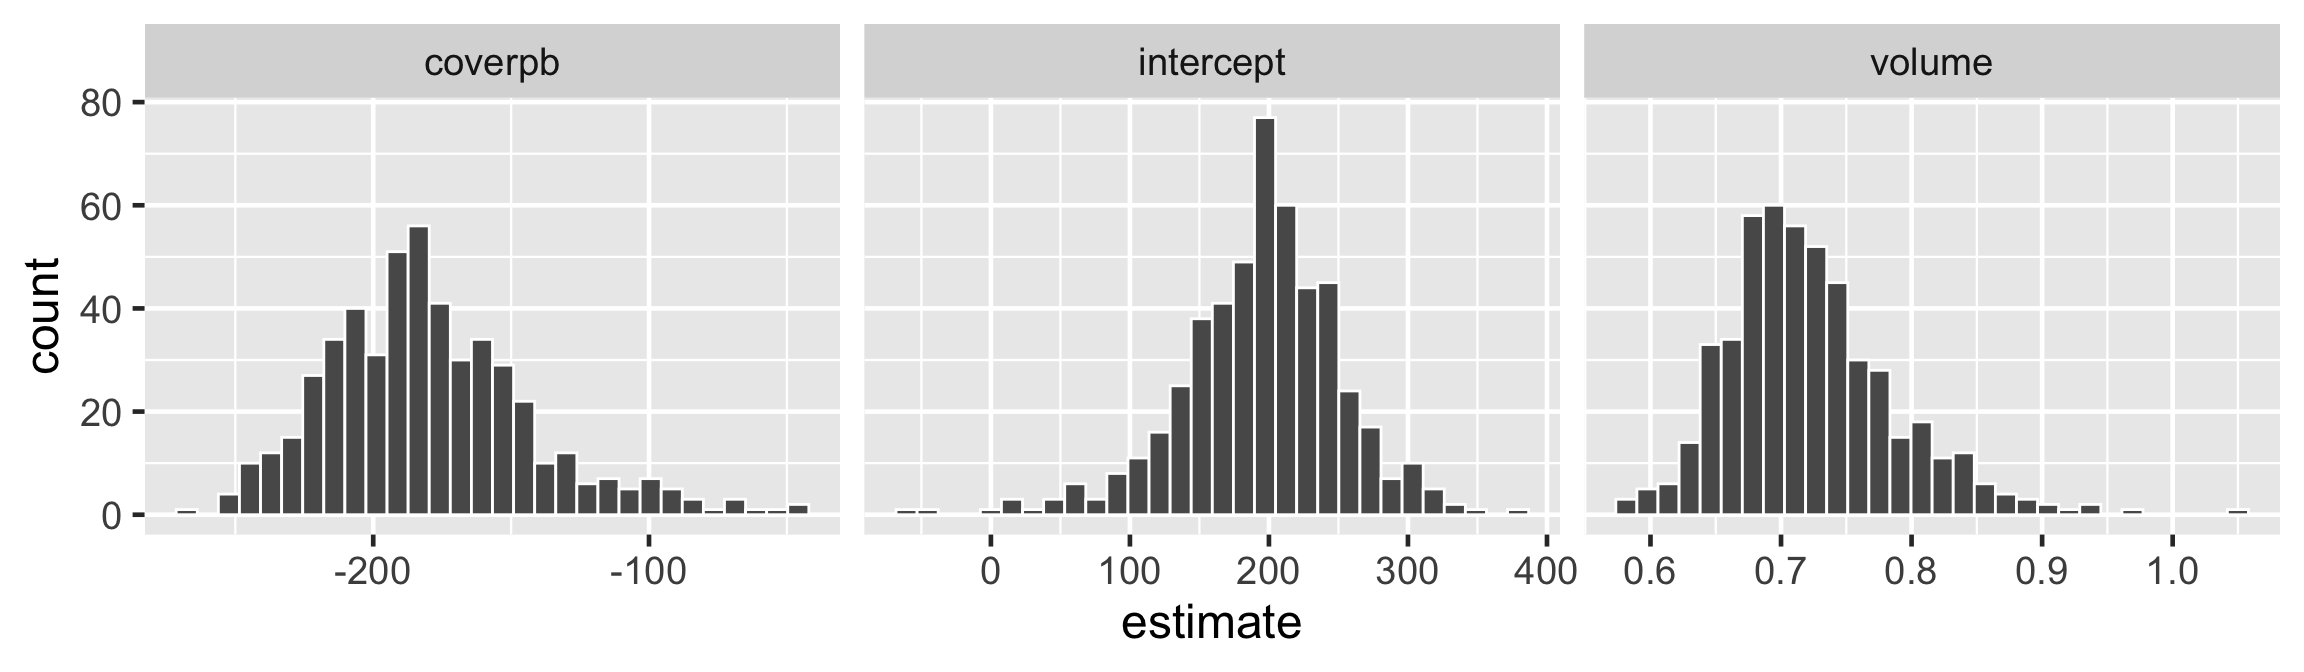
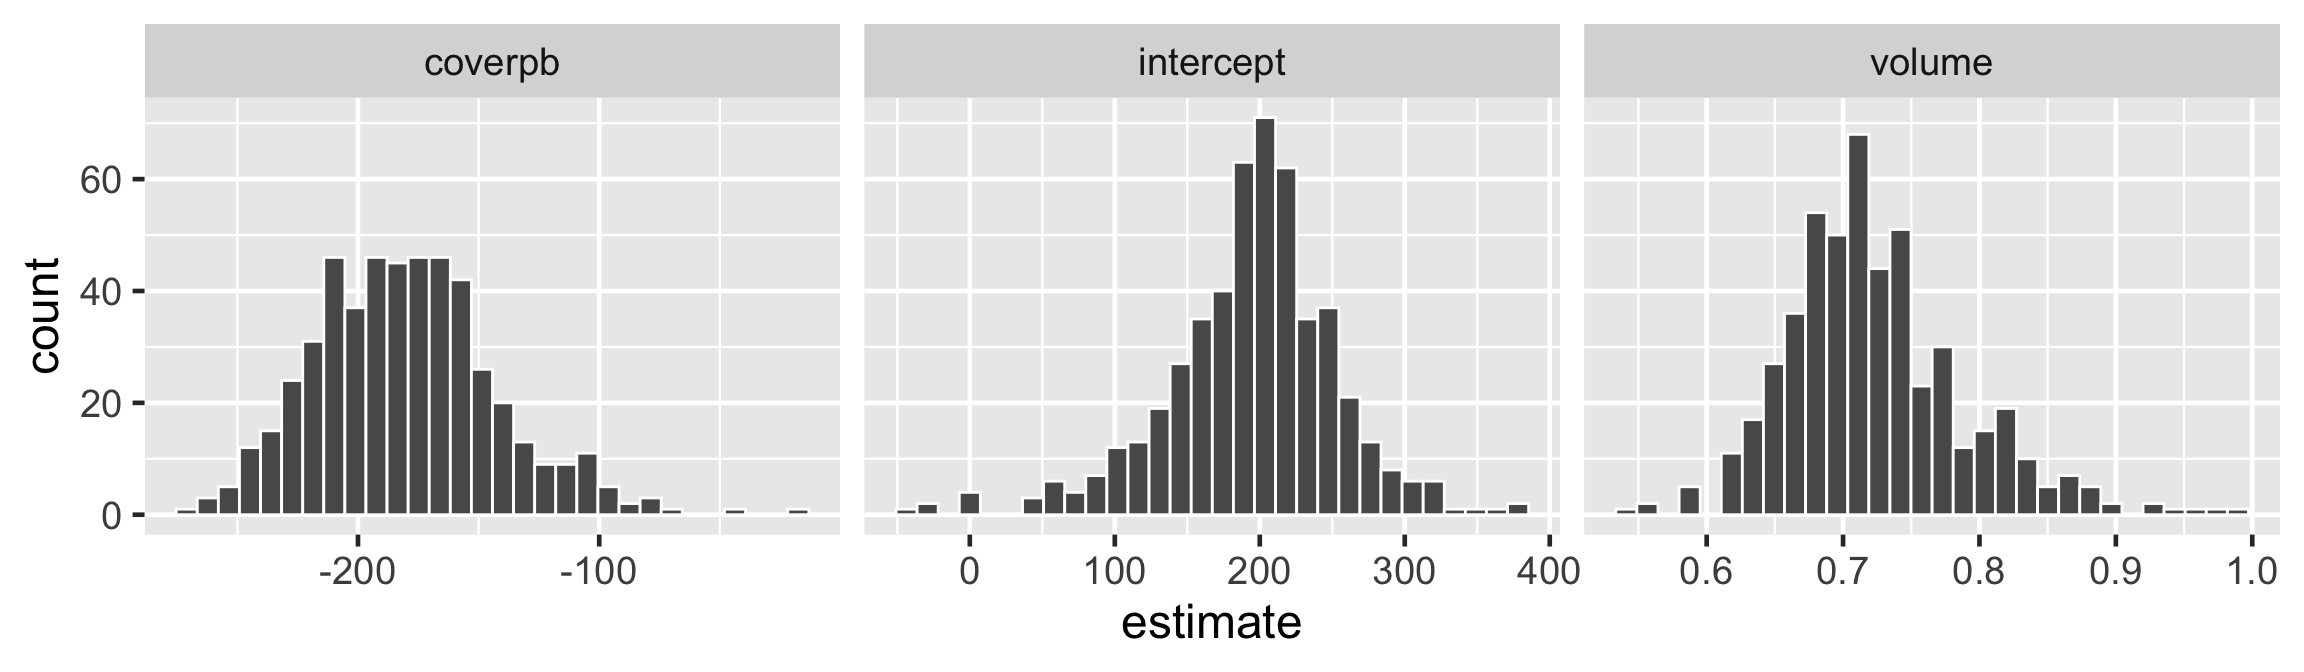
fix stuff

diff --git a/lectures/34/adding-complexity.html b/lectures/34/adding-complexity.html
@@ -389,6 +389,28 @@
   <p class="institute">STAT 20 UC Berkeley</p>
 </section>
 
+<section id="agenda" class="slide level2">
+<h2>Agenda</h2>
+<ol type="1">
+<li class="fragment">Common mathematical assumptions of the linear model</li>
+</ol>
+<ul>
+<li class="fragment">Residual analysis</li>
+</ul>
+<ol start="2" type="1">
+<li class="fragment">Multiple Regression</li>
+</ol>
+<ul>
+<li class="fragment">Example: shipping books</li>
+<li class="fragment">Adding complexity: Two intercepts</li>
+</ul>
+<ol start="3" type="1">
+<li class="fragment">Extending the Model</li>
+</ol>
+<ul>
+<li class="fragment">Interaction terms</li>
+</ul>
+</section>
 <section id="section" class="slide level2" data-background-image="images/model-assumptions-1.jpg" data-background-size="contain">
 <h2></h2>
 </section>
@@ -511,6 +533,12 @@ F-statistic: 52.87 on 1 and 13 DF,  p-value: 6.262e-06</code></pre>
 <section id="section-6" class="slide level2">
 <h2></h2>
 <p><strong>Question 2</strong>: Does this appear to be a reasonable setting in which to apply linear regression for inference?</p>
+<div class="fragment">
+<p>What is the population we wish to draw inferences on?</p>
+<blockquote>
+<p>All books sold on Amazon</p>
+</blockquote>
+</div>
 <div class="fragment">
 <p>We need to consider:</p>
 <div>
@@ -764,8 +792,9 @@ F-statistic: 76.73 on 2 and 12 DF,  p-value: 1.455e-07</code></pre>
 <li class="fragment">How much of the variation in weight is explained by a model containing both volume and cover?</li>
 </ul>
 </section>
-<section id="section-12" class="slide level2">
-<h2></h2>
+<section id="mathematical-cis" class="slide level2">
+<h2>Mathematical CIs</h2>
+<div class="fragment">
 <div class="cell" data-layout-align="center">
 <div class="sourceCode" id="cb14"><pre class="sourceCode numberSource r cell-code number-lines code-with-copy"><code class="sourceCode r"><span id="cb14-1"><a href="#cb14-1"></a><span class="fu">coef</span>(<span class="fu">summary</span>(m2))</span></code><button title="Copy to Clipboard" class="code-copy-button"><i class="bi"></i></button></pre></div>
 <div class="cell-output-stdout">
@@ -779,16 +808,29 @@ coverpb     -184.0472714 40.49419938 -4.545028 6.719488e-04</code></pre>
 <pre><code>[1] -2.178813</code></pre>
 </div>
 </div>
+</div>
 <div class="fragment">
 <div class="poll">
-<p>Which of the follow represents the appropriate 95% CI for <code>coverpb</code>?</p>
-<ol type="1">
-<li class="fragment"><span class="math inline">\(197 \pm 1.96 \times 59.19\)</span></li>
-<li class="fragment"><span class="math inline">\(-184 \pm 2.18 \times 40.5\)</span></li>
-<li class="fragment"><span class="math inline">\(-184 \pm -4.55 \times 40.5\)</span></li>
-</ol>
+<p>Which of the following represents the appropriate 95% CI for <code>coverpb</code>?</p>
+<div>
+<p>A. <span class="math inline">\(197 \pm 1.96 \times 59.19\)</span> B. <span class="math inline">\(-184 \pm 2.18 \times 40.5\)</span> C. <span class="math inline">\(-184 \pm -4.55 \times 40.5\)</span></p>
 </div>
 </div>
+<div class="cell" data-layout-align="center">
+<div class="cell-output-display">
+<div class="countdown" id="timer_625daac5" style="right:0;bottom:0;font-size:1.5em;" data-warnwhen="0">
+<code class="countdown-time"><span class="countdown-digits minutes">01</span><span class="countdown-digits colon">:</span><span class="countdown-digits seconds">00</span></code>
+</div>
+</div>
+</div>
+</div>
+</section>
+<section id="section-12" class="slide level2">
+<h2></h2>
+<center>
+<iframe src="https://embed.polleverywhere.com/multiple_choice_polls/bUAlI8vXMBnDvqYwsFxes?controls=none&amp;short_poll=true" width="800px" height="600px">
+</iframe>
+</center>
 </section>
 <section id="mathematical-cis-in-r" class="slide level2">
 <h2>Mathematical CIs in R</h2>
@@ -854,7 +896,7 @@ coverpb     -272.2765525 -95.8179902</code></pre>
 </div>
 <div class="cell" data-layout-align="center">
 <div class="cell-output-display">
-<div class="countdown" id="timer_625d89f2" style="right:0;bottom:0;font-size:1.5em;" data-warnwhen="20">
+<div class="countdown" id="timer_625daccc" style="right:0;bottom:0;font-size:1.5em;" data-warnwhen="20">
 <code class="countdown-time"><span class="countdown-digits minutes">02</span><span class="countdown-digits colon">:</span><span class="countdown-digits seconds">00</span></code>
 </div>
 </div>
@@ -892,16 +934,16 @@ coverpb     -272.2765525 -95.8179902</code></pre>
 # Groups:   replicate [500]
    replicate term      estimate
        &lt;int&gt; &lt;chr&gt;        &lt;dbl&gt;
- 1         1 intercept  221.   
- 2         1 volume       0.683
- 3         1 coverpb   -155.   
- 4         2 intercept  134.   
- 5         2 volume       0.783
- 6         2 coverpb   -159.   
- 7         3 intercept  172.   
- 8         3 volume       0.764
- 9         3 coverpb   -166.   
-10         4 intercept  105.   
+ 1         1 intercept  154.   
+ 2         1 volume       0.762
+ 3         1 coverpb   -152.   
+ 4         2 intercept  125.   
+ 5         2 volume       0.813
+ 6         2 coverpb   -137.   
+ 7         3 intercept  161.   
+ 8         3 volume       0.767
+ 9         3 coverpb   -221.   
+10         4 intercept  127.   
 # … with 1,490 more rows</code></pre>
 </div>
 </div>
@@ -936,30 +978,37 @@ coverpb     -272.2765525 -95.8179902</code></pre>
 </blockquote>
 </div>
 </section>
-<section id="extending-the-model" class="slide level2">
+<section>
+<section id="extending-the-model" class="title-slide slide level1 center">
+<h1>Extending the model</h1>
+
+</section>
+<section id="extending-the-model-1" class="slide level2">
 <h2>Extending the model</h2>
 <div class="fragment">
 <div class="cell" data-layout-align="center">
 <div class="cell-output-display">
 <div class="quarto-figure quarto-figure-center">
 <figure>
-<p><img data-src="adding-complexity_files/figure-revealjs/unnamed-chunk-34-1.png" width="960"></p>
+<p><img data-src="adding-complexity_files/figure-revealjs/unnamed-chunk-36-1.png" width="960"></p>
 </figure>
 </div>
 </div>
 </div>
+<blockquote>
 <p>The two cover types have different intercepts. Do they share the same slope?</p>
+</blockquote>
 </div>
 </section>
-<section id="extending-the-model-1" class="slide level2">
+<section id="extending-the-model-2" class="slide level2">
 <h2>Extending the model</h2>
 <p>Think about the geometry.</p>
 </section>
 
-<section id="extending-the-model-2" class="slide level2">
+<section id="extending-the-model-3" class="slide level2">
 <h2>Extending the model</h2>
 
-<img data-src="adding-complexity_files/figure-revealjs/unnamed-chunk-38-1.png" width="960" class="r-stretch quarto-figure-center"></section>
+<img data-src="adding-complexity_files/figure-revealjs/unnamed-chunk-40-1.png" width="960" class="r-stretch quarto-figure-center"></section>
 <section id="interaction-terms" class="slide level2">
 <h2>Interaction terms</h2>
 <div class="fragment">
@@ -1008,19 +1057,19 @@ F-statistic:  48.5 on 3 and 11 DF,  p-value: 1.245e-06</code></pre>
 <h2></h2>
 <p>Recall the original residual plots for the simple model.</p>
 
-<img data-src="adding-complexity_files/figure-revealjs/unnamed-chunk-42-1.png" width="1152" class="r-stretch quarto-figure-center"></section>
+<img data-src="adding-complexity_files/figure-revealjs/unnamed-chunk-44-1.png" width="1152" class="r-stretch quarto-figure-center"></section>
 <section id="section-16" class="slide level2">
 <h2></h2>
 <p>Residual plots for the two-intercept model.</p>
 
-<img data-src="adding-complexity_files/figure-revealjs/unnamed-chunk-44-1.png" width="1152" class="r-stretch quarto-figure-center"></section>
+<img data-src="adding-complexity_files/figure-revealjs/unnamed-chunk-46-1.png" width="1152" class="r-stretch quarto-figure-center"></section>
 <section id="section-17" class="slide level2">
 <h2></h2>
 <div class="cell" data-layout-align="center">
 <div class="cell-output-display">
 <div class="quarto-figure quarto-figure-center">
 <figure>
-<p><img data-src="adding-complexity_files/figure-revealjs/unnamed-chunk-46-1.png" width="960"></p>
+<p><img data-src="adding-complexity_files/figure-revealjs/unnamed-chunk-48-1.png" width="960"></p>
 </figure>
 </div>
 </div>
@@ -1032,7 +1081,7 @@ F-statistic:  48.5 on 3 and 11 DF,  p-value: 1.245e-06</code></pre>
 <div class="footer footer-default">
 
 </div>
-</section>
+</section></section>
     </div>
   </div>
 
